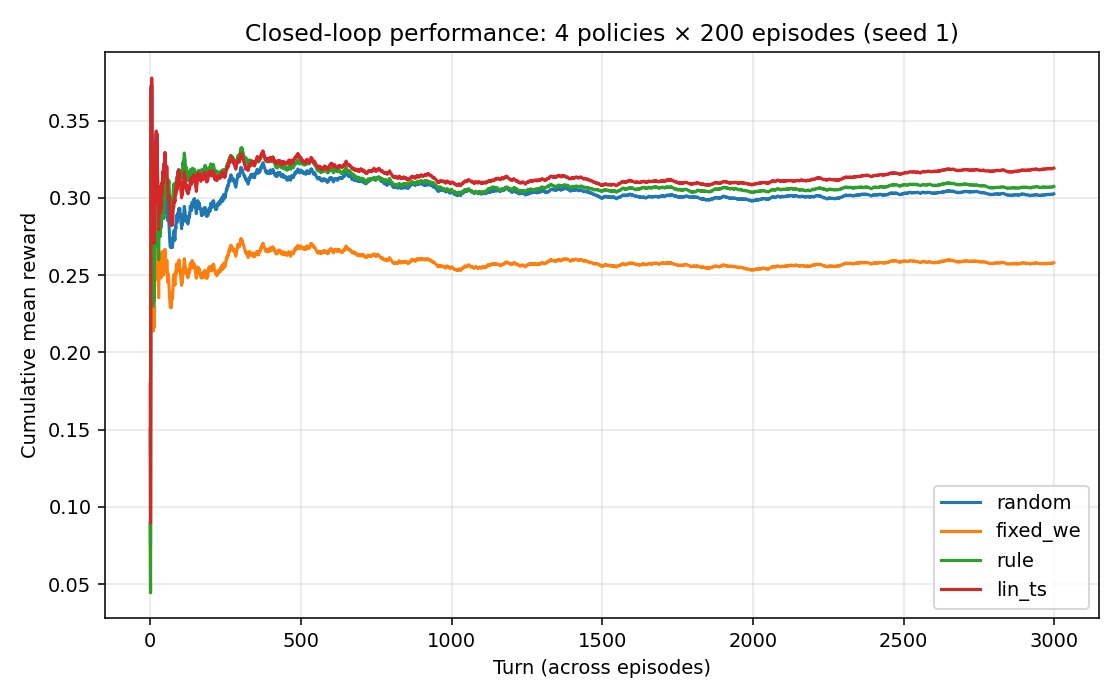
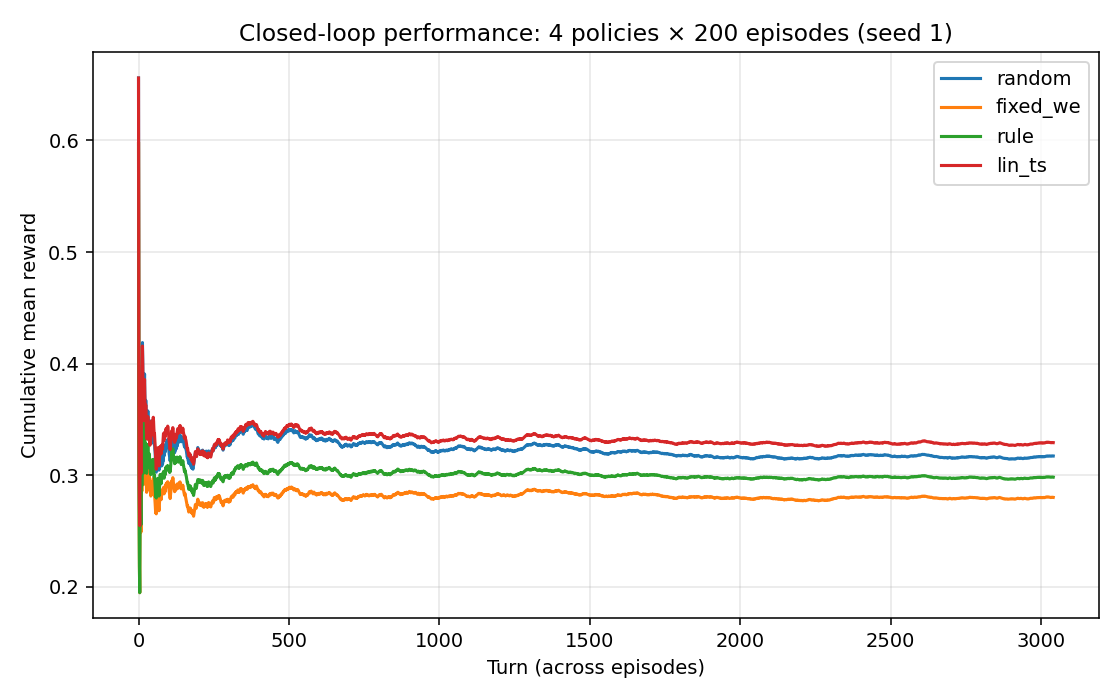
evaluation resultes updated for new 5 failure types

diff --git a/app/demo_app.py b/app/demo_app.py
@@ -287,7 +287,7 @@ if st.session_state.last_decision is not None:
     # ---------------------------------------------------------
     st.markdown("## Step 4 — Context vector built for the bandit")
     st.caption(
-        "The bandit reads only this 10-dim vector. It cannot see raw text or history — "
+        "The bandit reads only this 13-dim vector. It cannot see raw text or history — "
         "only these numbers."
     )
 
@@ -299,9 +299,12 @@ if st.session_state.last_decision is not None:
         "4: skill_correct_rate",
         "5: failure=low_mastery (one-hot)",
         "6: failure=repair_needed (one-hot)",
-        "7: prev_action_was_repair",
-        "8: prev_outcome_correct",
-        "9: prev_outcome_used_hint",
+        "7: failure=disengagement (one-hot)",
+        "8: failure=skill_regression (one-hot)",
+        "9: failure=compounding_struggle (one-hot)",
+        "10: prev_action_was_repair",
+        "11: prev_outcome_correct",
+        "12: prev_outcome_used_hint",
     ]
     ctx_df = pd.DataFrame({
         "Dimension": ctx_labels,
